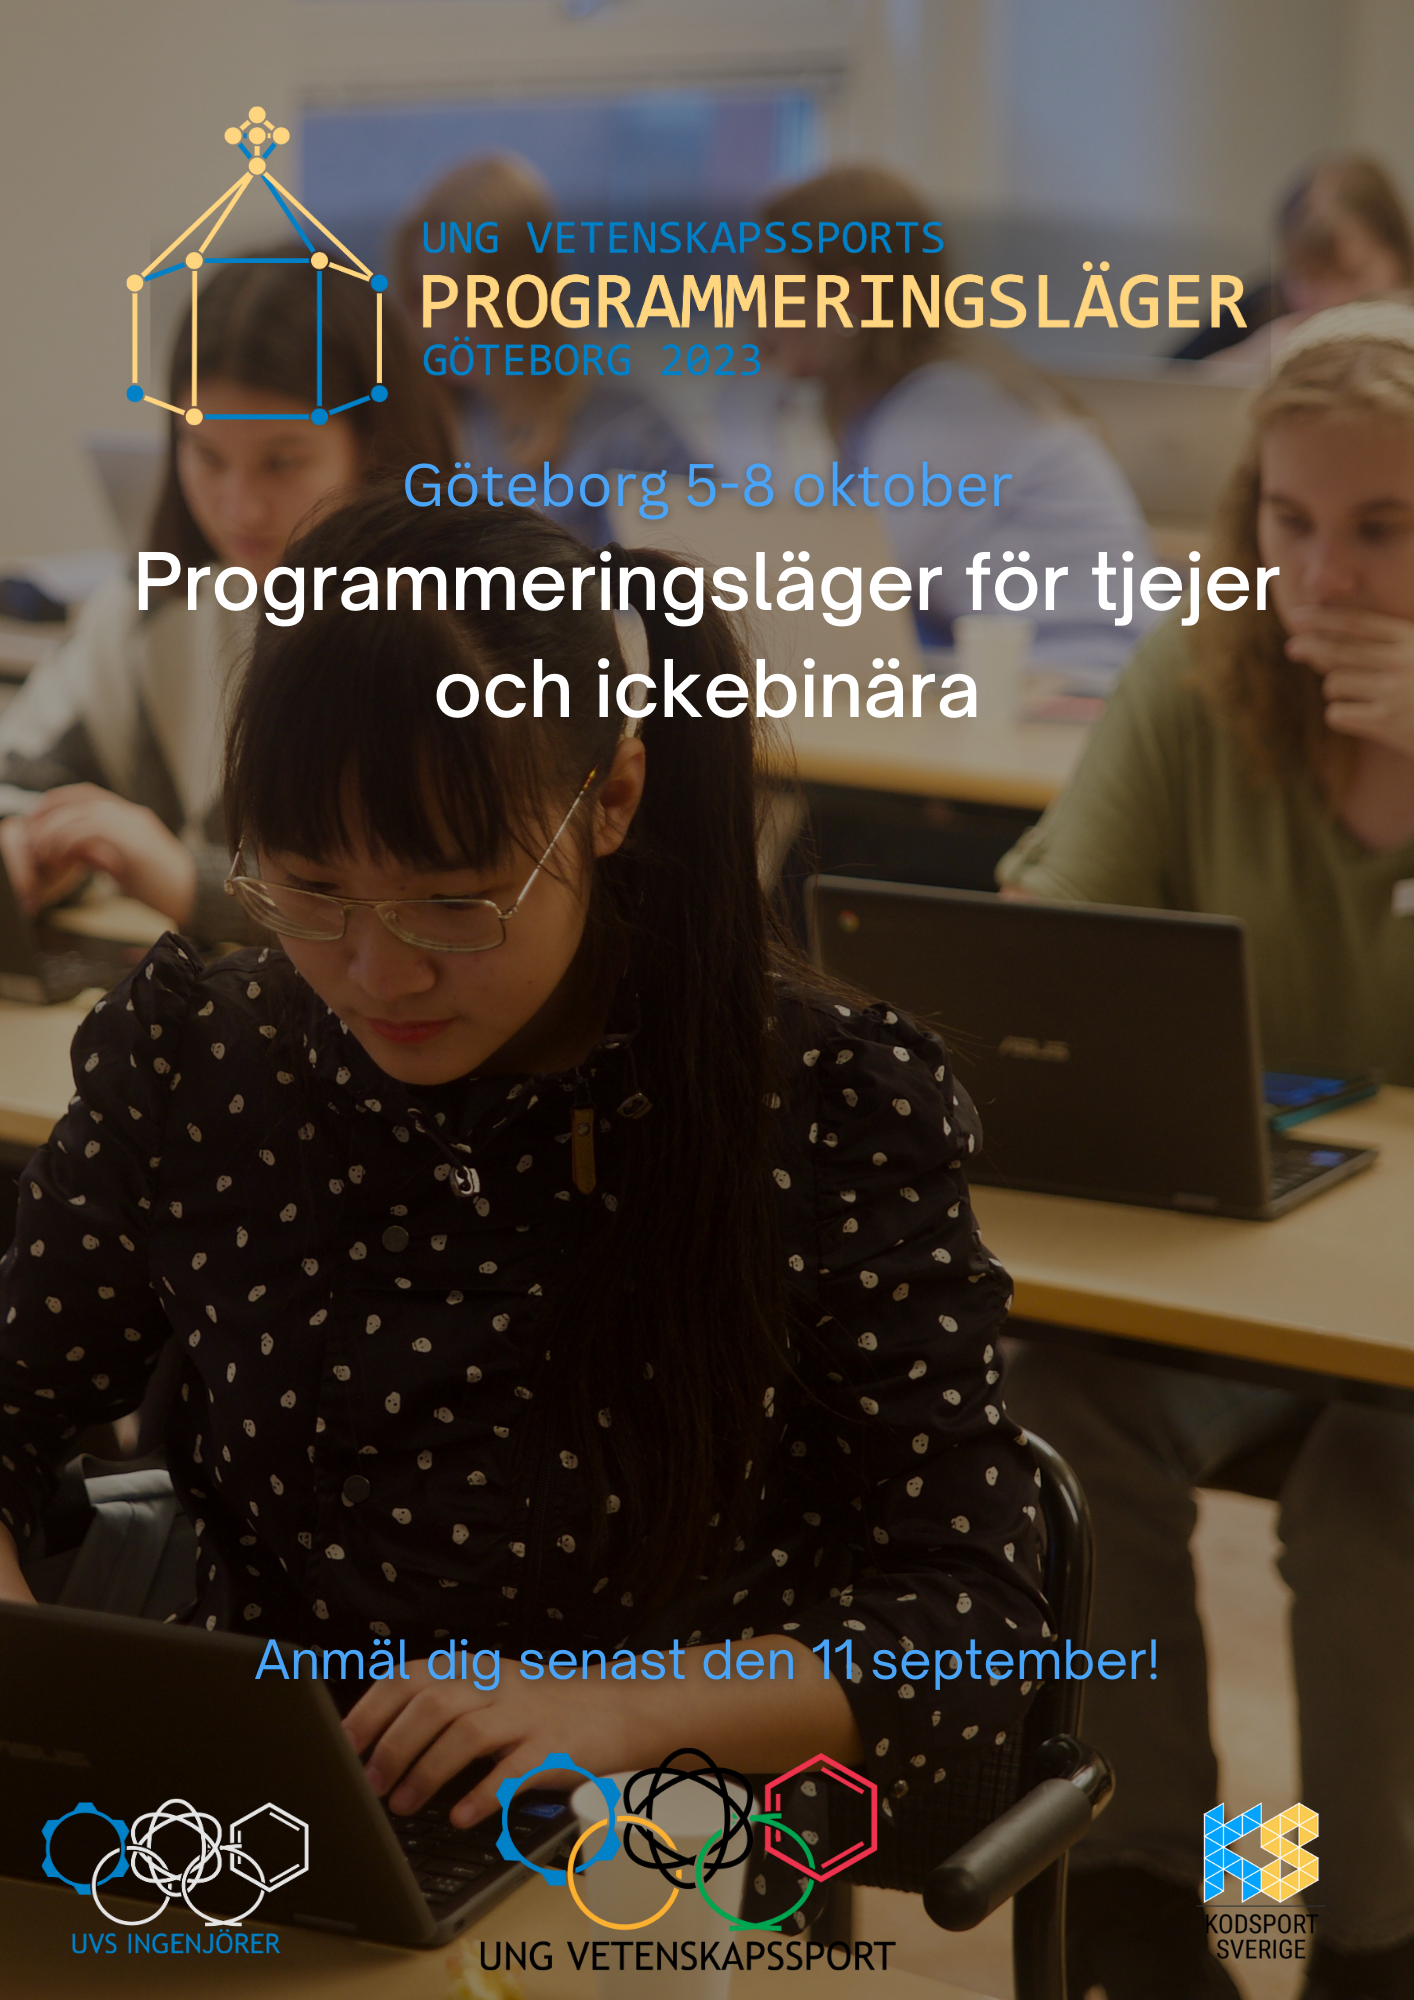
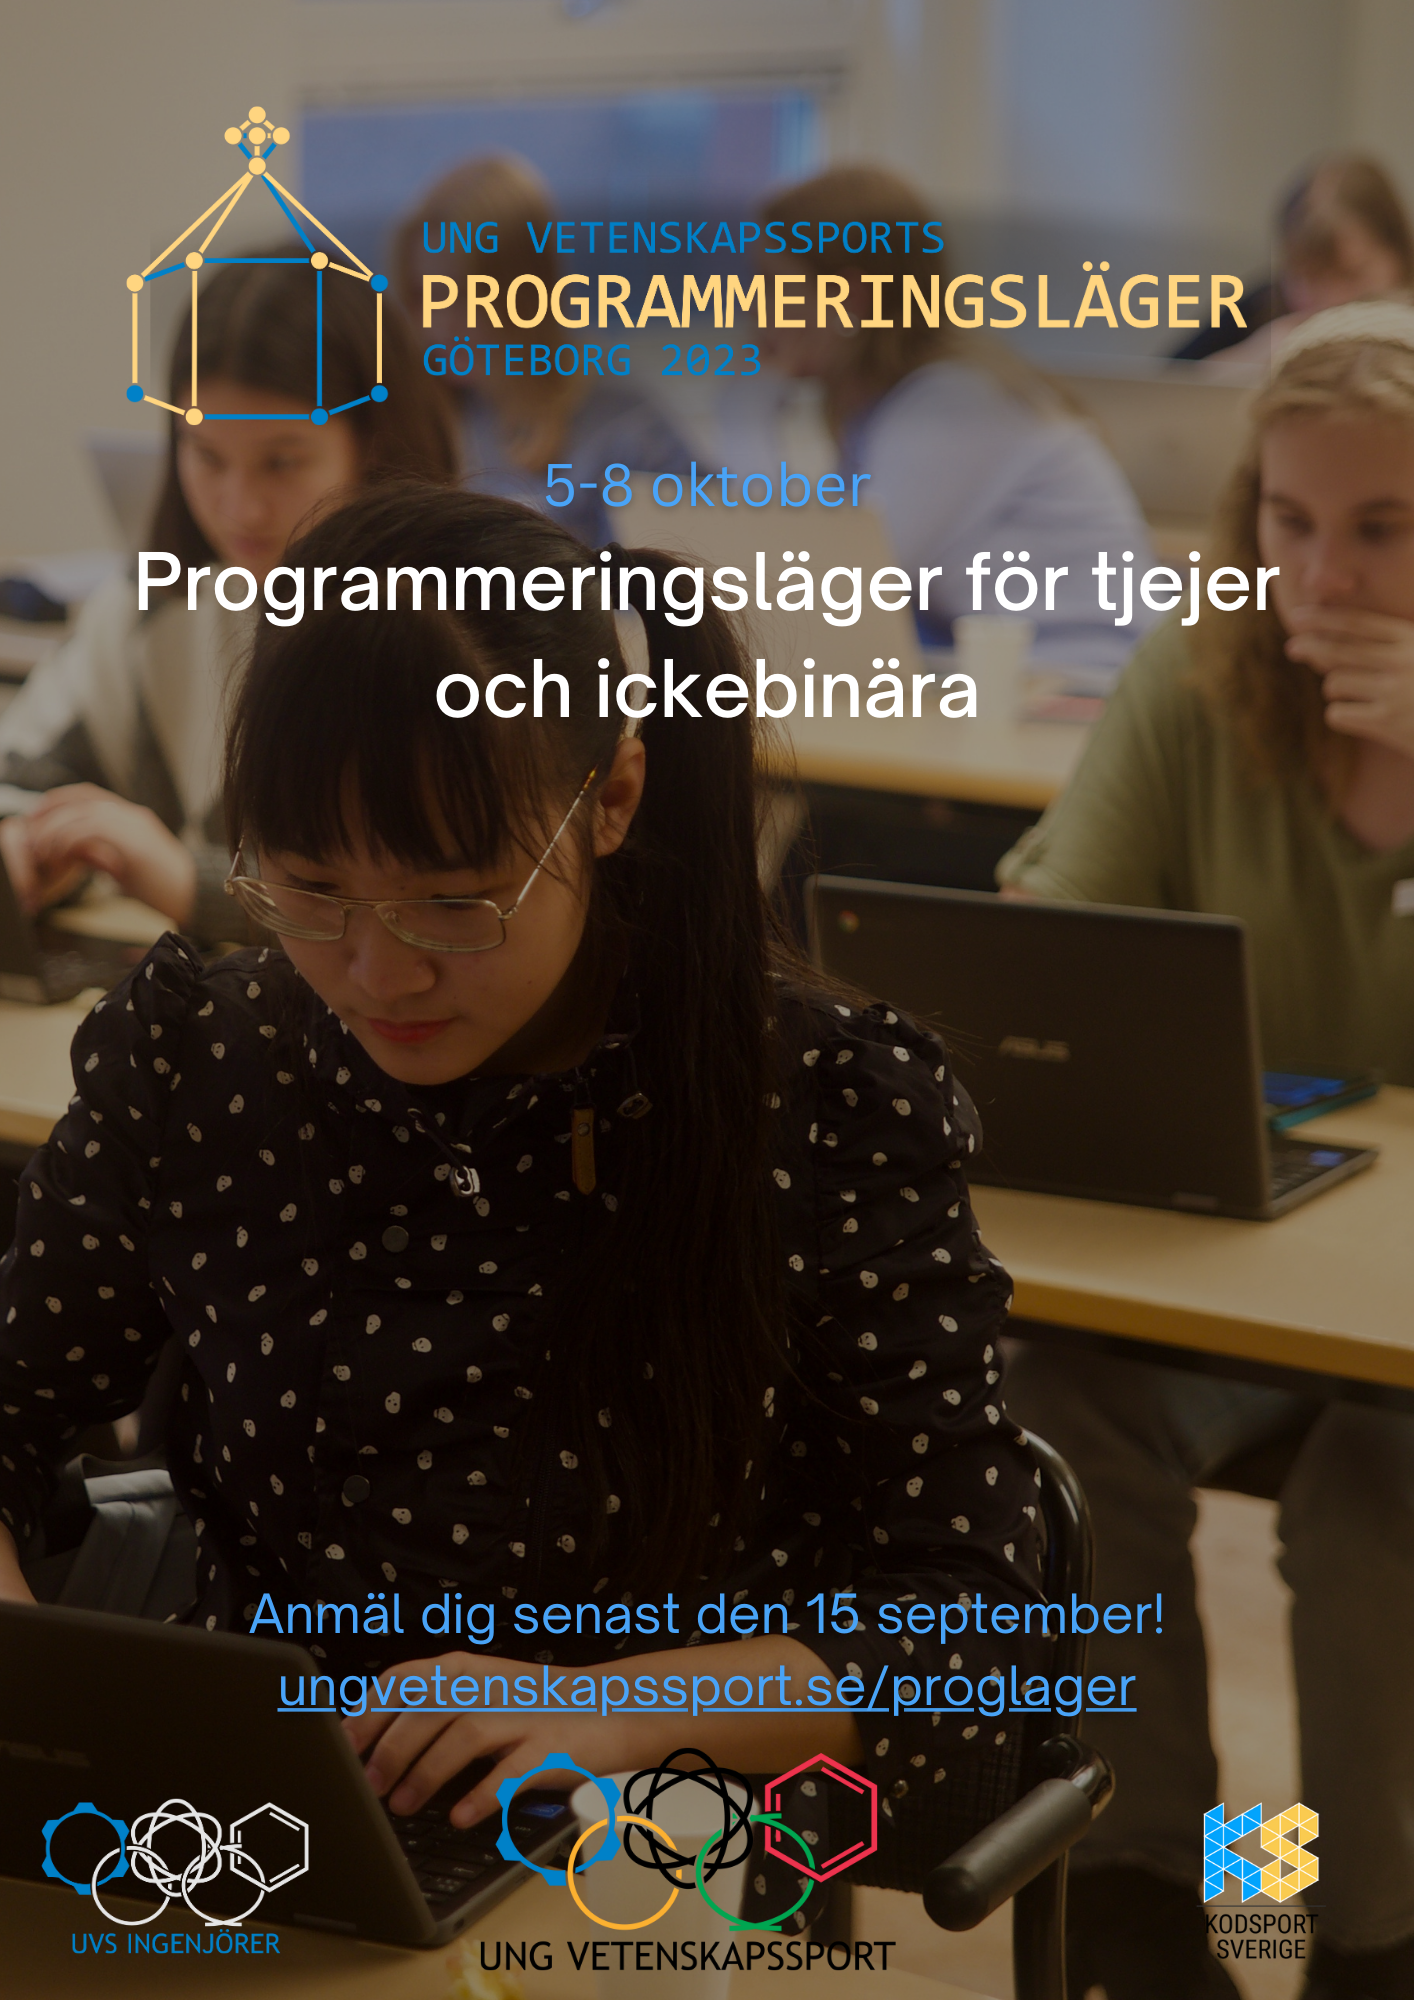
change last day to apply proglager

Changed region(s): [[0.1867, 0.775, 0.8091, 0.868], [0.2801, 0.217, 0.7157, 0.279]]

diff --git a/_posts/2023-08-30-proglager.md b/_posts/2023-08-30-proglager.md
@@ -9,7 +9,7 @@ permalink: /proglager/
 ## Anmälan 2023
 Välkomna till vårt programmeringsläger för tjejer och ickebinära! Den 5-8 oktober äger Ung Vetenskapssports och Kodsports programmeringsläger för tjejer och ickebinära rum! Är du nyfiken på att lära dig mer om programmering och identifierar dig som tjej eller ickebinär? Tveka inte med att anmäla dig! Mer information finns i [inbjudan](/imgs/proglager/proglager_info.pdf). En poster som du gärna får skriva ut och sätta upp på skolan hittar du [här!](/imgs/proglager/proglager_poster23.png)
 
-Anmälan till Programmeringsläger för tjejer och ickebinära stänger den *11 september 2023* eller när alla platser är fyllda. Anmälan görs genom att fylla i [detta formulär](https://forms.gle/3F5iMUt5iY6MER4m8).
+Anmälan till Programmeringsläger för tjejer och ickebinära stänger den *15 september 2023* eller när alla platser är fyllda. Anmälan görs genom att fylla i [detta formulär](https://forms.gle/3F5iMUt5iY6MER4m8).
 
 Vid frågor kontakta
 [proglager@ungvetenskapssport.se](mailto:proglager@ungvetenskapssport.se)
@@ -24,6 +24,6 @@ Tack vare våra sponsorer har vi i år kunnat göra lägret **helt gratis**, ink
 
 [<img src="/imgs/proglager/tage-swahn.png" style="width: 100%; position: relative; center: 0px; max-width: 280px; padding: 5ex;">]()
 [<img src="/imgs/proglager/jane_street.png" style="width: 100%; position: relative; center: 0px; max-width: 254px; padding: 5ex;">](https://www.janestreet.com/)
-[<img src="/imgs/proglager/ga-fonden.png" style="width: 50%; position: relative; center: 0px; max-width: 90px; padding: 2ex;">](https://www.gafonden.com/)
-[<img src="/imgs/proglager/chalmers.png" style="width: 100%; position: relative; center: 0px; max-width: 66px; padding: 1ex;">](https://www.chalmers.se/)
+[<img src="/imgs/proglager/ga-fonden.png" style="width: 50%; position: relative; center: 0px; max-width: 80px; padding: 2ex;">](https://www.gafonden.com/)
+[<img src="/imgs/proglager/chalmers.png" style="width: 100%; position: relative; center: 0px; max-width: 90px; padding: 1ex;">](https://www.chalmers.se/)
 
